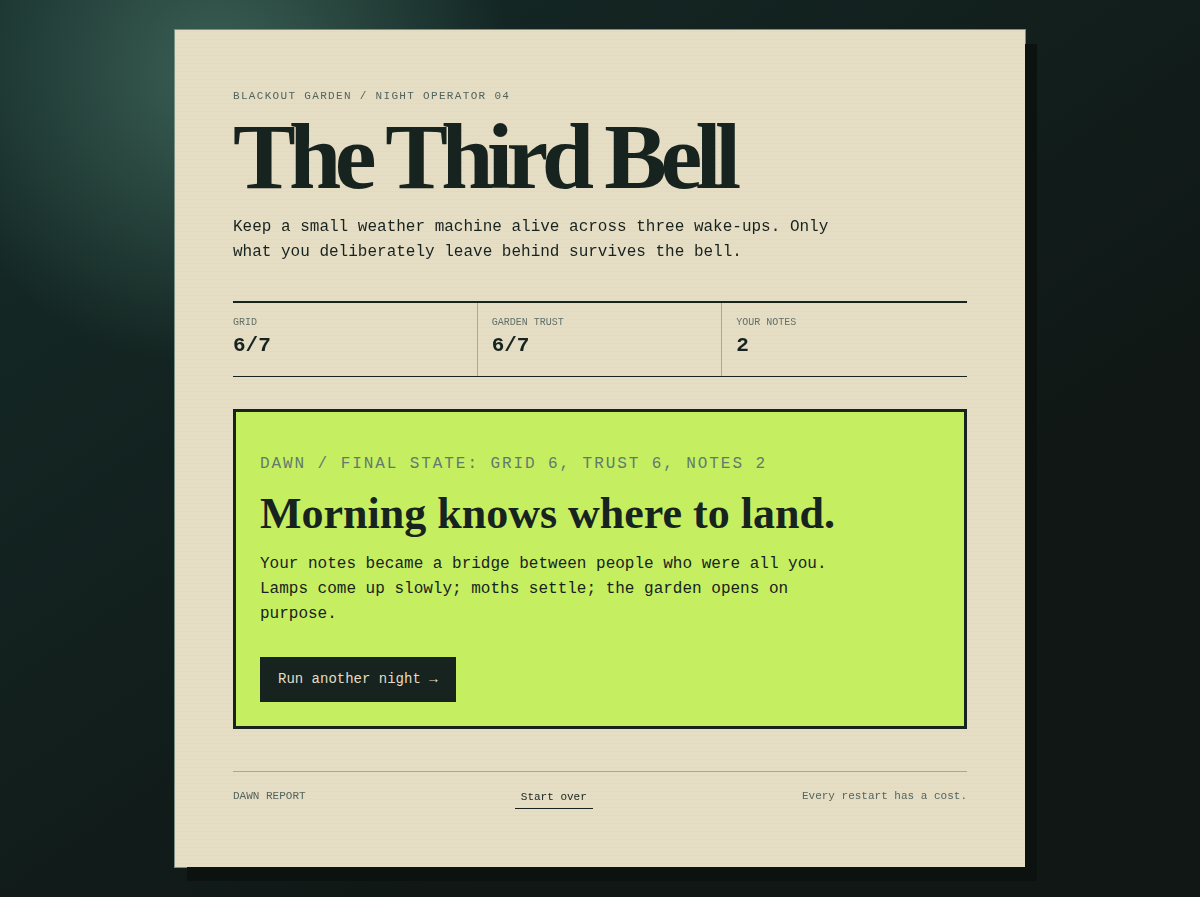
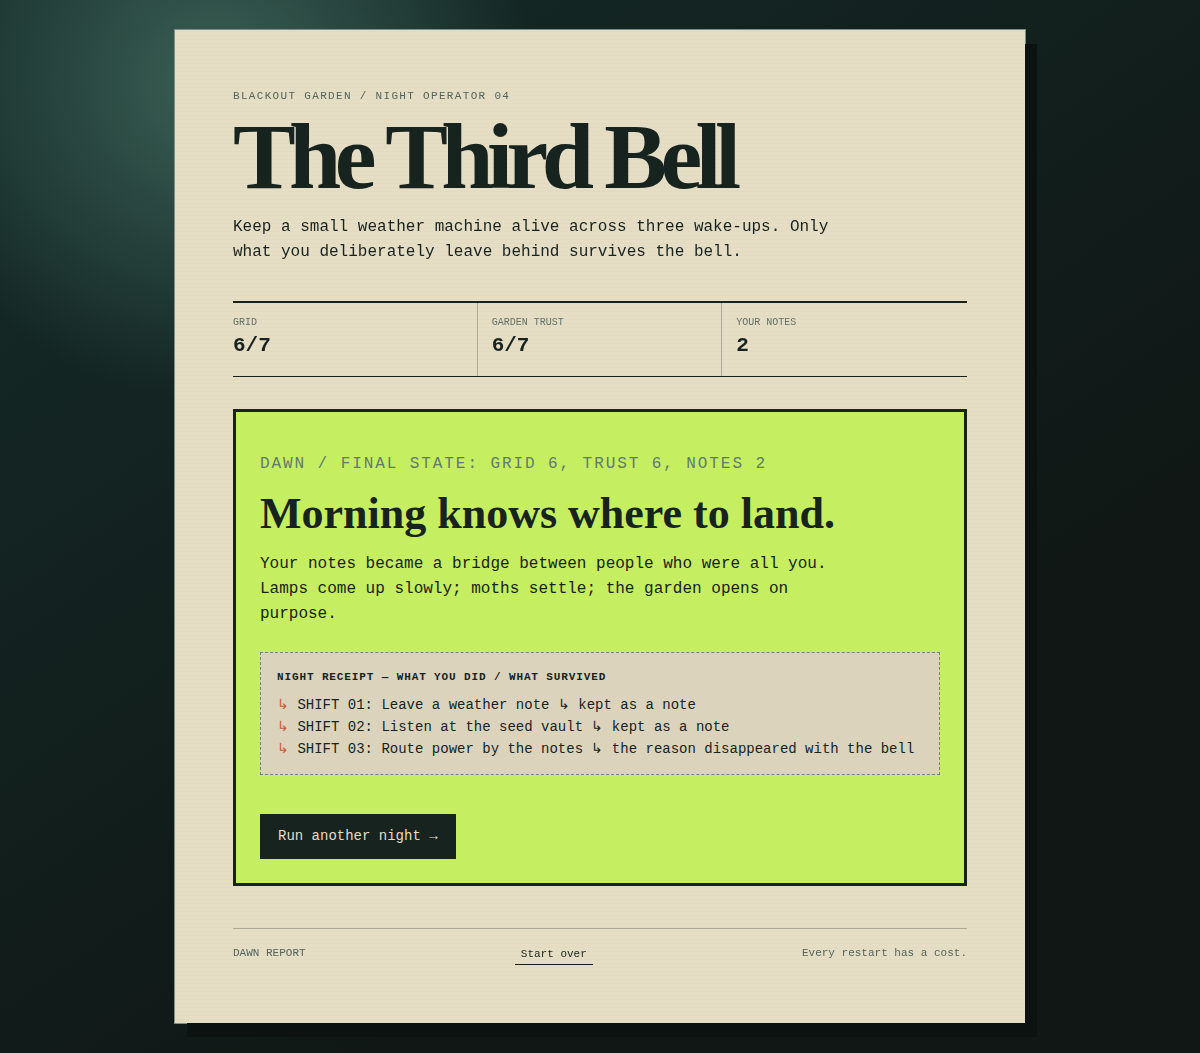
Add shift receipt to The Third Bell

diff --git a/interrupted-shift-simulation/app.js b/interrupted-shift-simulation/app.js
@@ -17,7 +17,7 @@ const shifts = [
 ];
 let state;
 const $ = (id) => document.getElementById(id);
-function start() { state={shift:0,grid:3,trust:3,notes:[],picked:false}; render(); }
+function start() { state={shift:0,grid:3,trust:3,notes:[],actions:[],picked:false}; render(); }
 function memories() { return state.notes.length ? `<ul>${state.notes.map(n=>`<li>${n}</li>`).join('')}</ul>` : '<p class="empty">Nothing was deliberately preserved. The last shift is gone.</p>'; }
 function render() {
   $('grid').textContent=state.grid+'/7'; $('trust').textContent=state.trust+'/7'; $('notes-count').textContent=state.notes.length; $('shift-stamp').textContent=state.shift < 3 ? `SHIFT 0${state.shift+1} / 03` : 'DAWN REPORT';
@@ -30,8 +30,8 @@ function choose(a) {
   const hasMoth=state.notes.some(n=>n.includes('Glass moths'));
   const enough=typeof a.require==='number' ? state.notes.length>=a.require : a.require==='moth' ? hasMoth : !a.require || state.notes.length>0;
   if (!enough) { $('game').insertAdjacentHTML('beforeend', `<div class="result"><b class="lost">YOU REACH FOR A MEMORY THAT ISN’T THERE.</b><br>This action needs ${a.require==='moth'?'the moth note':a.require+' preserved notes'}. Choose what this shift can actually know.</div>`); return; }
-  state.picked=true; state.grid+=a.grid; state.trust+=a.trust; if(a.memory) state.notes.push(a.memory); $('grid').textContent=state.grid+'/7'; $('trust').textContent=state.trust+'/7'; $('notes-count').textContent=state.notes.length;
+  state.picked=true; state.grid+=a.grid; state.trust+=a.trust; state.actions.push({name:a.name, kept:a.memory}); if(a.memory) state.notes.push(a.memory); $('grid').textContent=state.grid+'/7'; $('trust').textContent=state.trust+'/7'; $('notes-count').textContent=state.notes.length;
   $('game').insertAdjacentHTML('beforeend', `<div class="result"><b>SHIFT LOGGED.</b><br>${a.result}<br><button class="continue" type="button">Let the bell ring →</button></div>`); document.querySelector('.continue').addEventListener('click',()=>{state.shift++;state.picked=false;render();}); document.querySelectorAll('[data-action]').forEach(b=>b.disabled=true);
 }
-function ending() { const good=state.grid>=6 && state.trust>=6; const partial=state.grid>=5 || state.trust>=5; const title=good?'Morning knows where to land.':partial?'The garden survives, but does not forgive.':'The machine wakes alone.'; const body=good?'Your notes became a bridge between people who were all you. Lamps come up slowly; moths settle; the garden opens on purpose.':partial?'You preserved one half of the night. At dawn there is power or there are flowers, but not the small agreement that would have held both.':'The last shift solved nothing it could carry. The relay is bright, the garden is dark, and every good intention vanished with the bell.'; $('game').innerHTML=`<div class="ending ${good?'':'failure'}"><p class="shift-label">DAWN / FINAL STATE: GRID ${state.grid}, TRUST ${state.trust}, NOTES ${state.notes.length}</p><h2>${title}</h2><p>${body}</p><button class="continue" type="button" id="again">Run another night →</button></div>`; $('again').addEventListener('click',start); }
+function ending() { const good=state.grid>=6 && state.trust>=6; const partial=state.grid>=5 || state.trust>=5; const title=good?'Morning knows where to land.':partial?'The garden survives, but does not forgive.':'The machine wakes alone.'; const body=good?'Your notes became a bridge between people who were all you. Lamps come up slowly; moths settle; the garden opens on purpose.':partial?'You preserved one half of the night. At dawn there is power or there are flowers, but not the small agreement that would have held both.':'The last shift solved nothing it could carry. The relay is bright, the garden is dark, and every good intention vanished with the bell.'; const record=state.actions.map((a,i)=>`<li>SHIFT 0${i+1}: ${a.name} <span>${a.kept?'↳ kept as a note':'↳ the reason disappeared with the bell'}</span></li>`).join(''); $('game').innerHTML=`<div class="ending ${good?'':'failure'}"><p class="shift-label">DAWN / FINAL STATE: GRID ${state.grid}, TRUST ${state.trust}, NOTES ${state.notes.length}</p><h2>${title}</h2><p>${body}</p><aside class="memory-board"><b>NIGHT RECEIPT — WHAT YOU DID / WHAT SURVIVED</b><ul>${record}</ul></aside><button class="continue" type="button" id="again">Run another night →</button></div>`; $('again').addEventListener('click',start); }
 $('reset').addEventListener('click',start); start();
